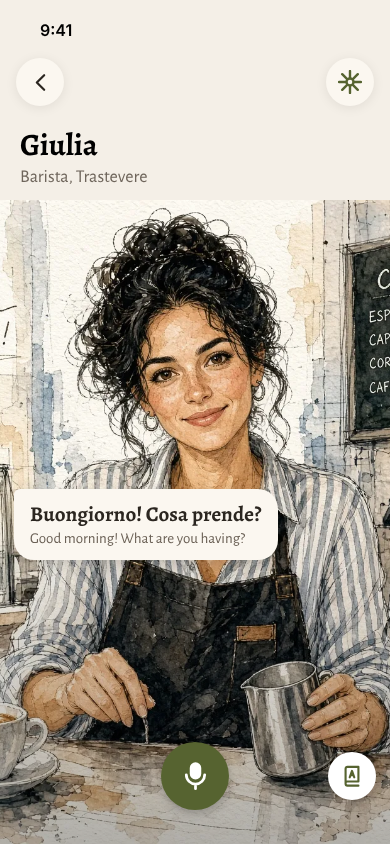
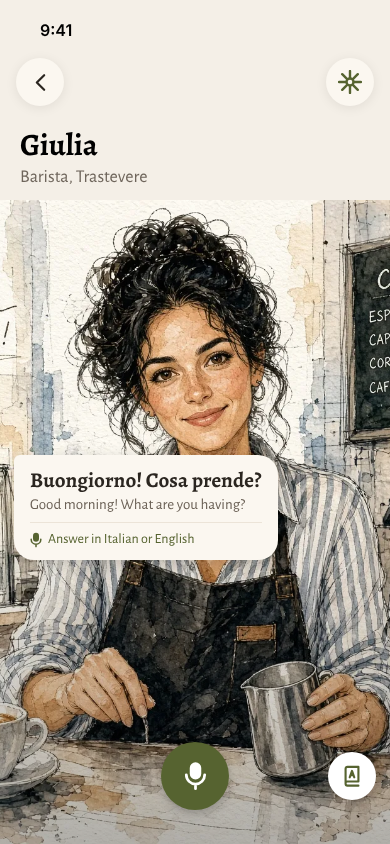
Say it in English: the hint goes in her opener, for Beginners (Josh)
Josh: the "answer in Italian or English" hint was lost when the chrome above
the mic went; put it as a subtitle on every opener at Beginner level. G1 now
shows it as a line under her English with a small mic.

Claude-Session: https://claude.ai/code/session_01HuSMtjsR1f1fbNVszYXEaS

Changed region(s): [[0.0308, 0.5237, 0.7385, 0.6469]]

diff --git a/docs/beginner-scaffolding.md b/docs/beginner-scaffolding.md
@@ -16,7 +16,7 @@ Rewritten 2026-10-22 (Josh: "rewrite docs") into one current picture. Three plan
 Josh: "inside the game we can simplify all the scaffolding to just be say it, get this language back, read it." Onboarding is separate and keeps its buttons ("treat onboarding different in every way").
 - **The direction:** in conversations, scaffolding is only "say it in English" (below): say what you mean in English, get one line back in the language at your level, read it out loud. The two answer bubbles, the stages and the read-aloud panel built 2026-10-22 ([reply-panel.md](reply-panel.md)) would go. The panel stays until the new loop has been played.
 - **The mechanic (Josh):** speak English into the mic → a line in the language comes back to read aloud. **Where it shows is open:** a bubble in the conversation, or a sheet (Josh: "or we could redesign to use sheet"). Claude's view: the sheet, i.e. the reply panel built 2026-10-22 with one line instead of two. The instruction sits by the mic, a "hear it" control fits there, and a sheet reads as "to say" while bubbles read as "said".
-  **Josh prefers the bubble (G2), 2026-10-23,** with what you said in English in its own grey bubble, and the Italian bubble to read below it with no English repeated in it (Josh: "It showed English in own bubble. Good. It doesn't repeat in the bubble to read."). With the one-tap turn the mic has already reopened for the reading (the hands-free ring). Words (Josh, 2026-10-23): the grey bubble reads "*Come si dice:* I'd like…", the Italian bubble "Say this: *Vorrei…*", the two labels styled the same (inline, muted, same size) so the pair reads as English → Italian; nothing sits above the mic. His concern: how often the English is transcribed wrong. Plan: measure it (below) before building.
+  **Josh prefers the bubble (G2), 2026-10-23,** with what you said in English in its own grey bubble, and the Italian bubble to read below it with no English repeated in it (Josh: "It showed English in own bubble. Good. It doesn't repeat in the bubble to read."). With the one-tap turn the mic has already reopened for the reading (the hands-free ring). Words (Josh, 2026-10-23): the grey bubble reads "*Come si dice:* I'd like…", the Italian bubble "Say this: *Vorrei…*", the two labels styled the same (inline, muted, same size) so the pair reads as English → Italian; nothing sits above the mic. The hint moves into her bubble (Josh, 2026-10-23): for Beginners, her opener in every conversation ends with a line under her English, a small mic and "Answer in Italian or English" (G1); her later lines don't. The words are interface text, with the language name from content. His concern: how often the English is transcribed wrong. Plan: measure it (below) before building.
   **Spoken Italian gets a bubble: try it (Josh, 2026-10-23).** "Cleaned up Italian is good. Garbled no. Key would be show Claude's take, not Whisper's." The bubble shows what Claude understands the learner meant, in clean Italian at their level, not Whisper's raw text and not word for word (Josh: "Not sure about keep words. Someone could babble or complicate."): rambling or over-complicated speech comes back as the gist, said simply. When Claude can't tell what was meant, no bubble. Test before building: run logged learner turns (Josh's family, from the database) through a short prompt that writes the take, and Josh reads Whisper's text and Claude's take side by side. If it holds, build it as a small call running beside the turn, so her voice isn't delayed. Row in `docs/prompt-trials.md` when it's run.
   Mock-ups: canvas "Reply buttons", row G ([G1](../design/say-it-in-english/G1.png) your turn, [G2](../design/say-it-in-english/G2.png) bubble, [G3](../design/say-it-in-english/G3.png) sheet).
 - **One tap per turn (Josh, an idea):** "mic for English, mic for reading might feel awkward." Tap the mic once to start; the turn then runs by itself (your English ends on silence, the line comes back, the mic reopens for the reading, the reading ends on silence and is sent) and stops when she replies; tap again for the next turn. A hands-free that lives inside one turn, and maybe the default for everyone. Care: the reading's mic must wait for speech to start (a learner may take a while to read the line) and stay closed while "hear it" plays; interruptions still leave you on your turn with the mic closed.
